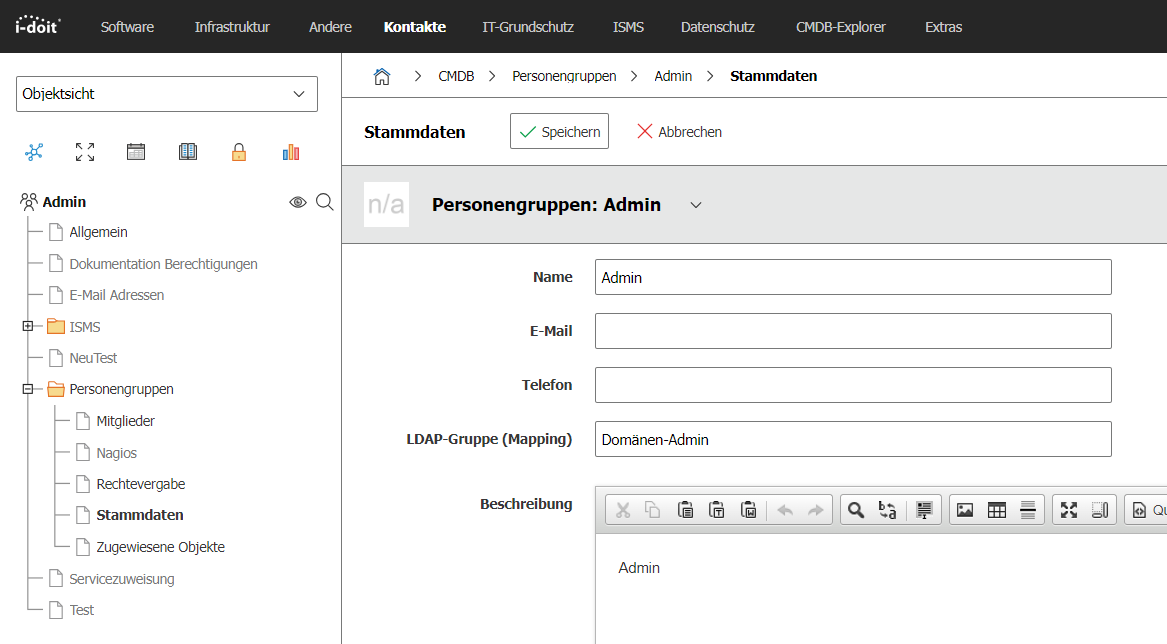
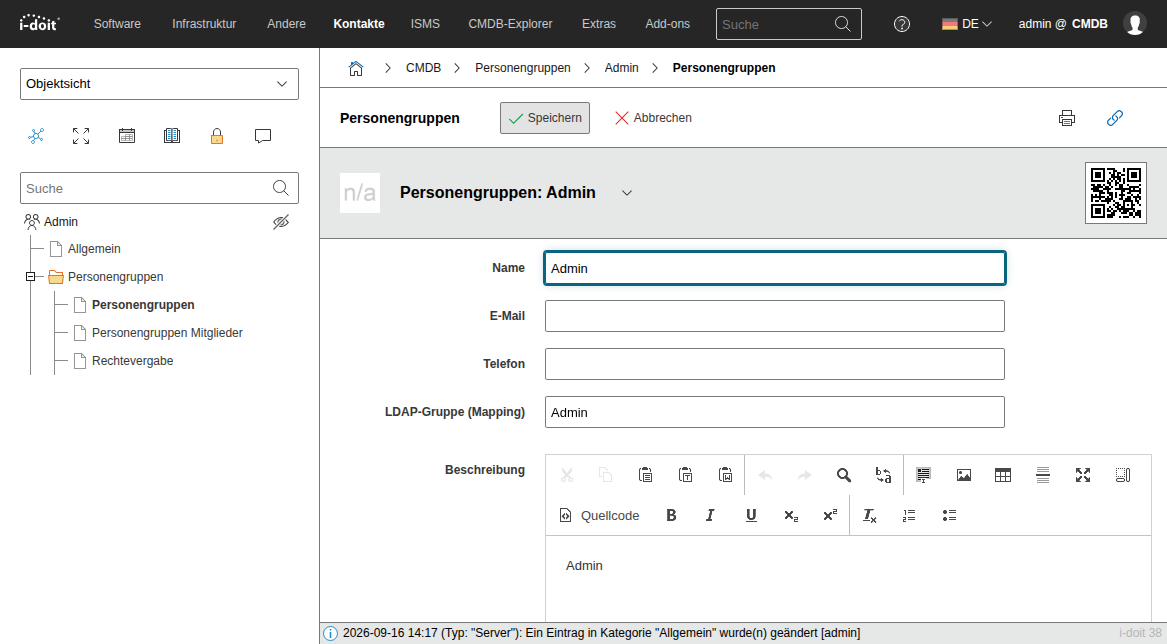
docs(ldap): current category name and screenshots for the person group mapping (#1210)
In i-doit 38 the LDAP mapping attribute sits in the category
'Person groups' inside the folder of the same name; 'Master Data' is no
longer shown in the object tree. Steps updated in EN and DE, attribute
label corrected to 'LDAP-Group (Mapping)', and 1-ldap.png replaced in
both languages with i-doit 38 screenshots (EN one was still 1.15).

diff --git a/docs/de/benutzerauthentifizierung-und-verwaltung/ldap-verzeichnis/index.md b/docs/de/benutzerauthentifizierung-und-verwaltung/ldap-verzeichnis/index.md
@@ -172,8 +172,8 @@ Die automatische Zuweisung sorgt dafür, dass Benutzer nach dem Login automatisc
 
 So richtest du die Zuweisung ein:
 
-1. Öffne die **Stammdaten** einer **Personengruppe** in i-doit.
-2. Trage im Attribut **LDAP-Gruppe (Mapping)** den Namen der entsprechenden LDAP-/AD-Gruppe ein.
+1. Öffne eine **Personengruppe** in i-doit und wechsle in die Kategorie **Personengruppen** im gleichnamigen Ordner.
+2. Trage im Attribut **LDAP-Gruppe (Mapping)** den Namen der entsprechenden LDAP-/AD-Gruppe ein und speichere.
 
 Beim Login oder bei der Synchronisation gleicht i-doit die Gruppenmitgliedschaften des Benutzers im Directory mit den konfigurierten Mappings ab. Bei Übereinstimmung wird die Personengruppe automatisch zugewiesen.
 

diff --git a/docs/en/user-authentication-and-management/ldap-directory/index.md b/docs/en/user-authentication-and-management/ldap-directory/index.md
@@ -172,8 +172,8 @@ The automatic assignment ensures that users receive the permissions of their per
 
 To set up the assignment:
 
-1. Open the **master data** of a **person group** in i-doit.
-2. Enter the name of the corresponding LDAP/AD group in the **LDAP Group (Mapping)** attribute.
+1. Open a **person group** in i-doit and switch to the category **Person groups** inside the folder of the same name.
+2. Enter the name of the corresponding LDAP/AD group in the **LDAP-Group (Mapping)** attribute and save.
 
 During login or synchronization, i-doit compares the user's group memberships in the directory with the configured mappings. If they match, the person group is automatically assigned.
 
